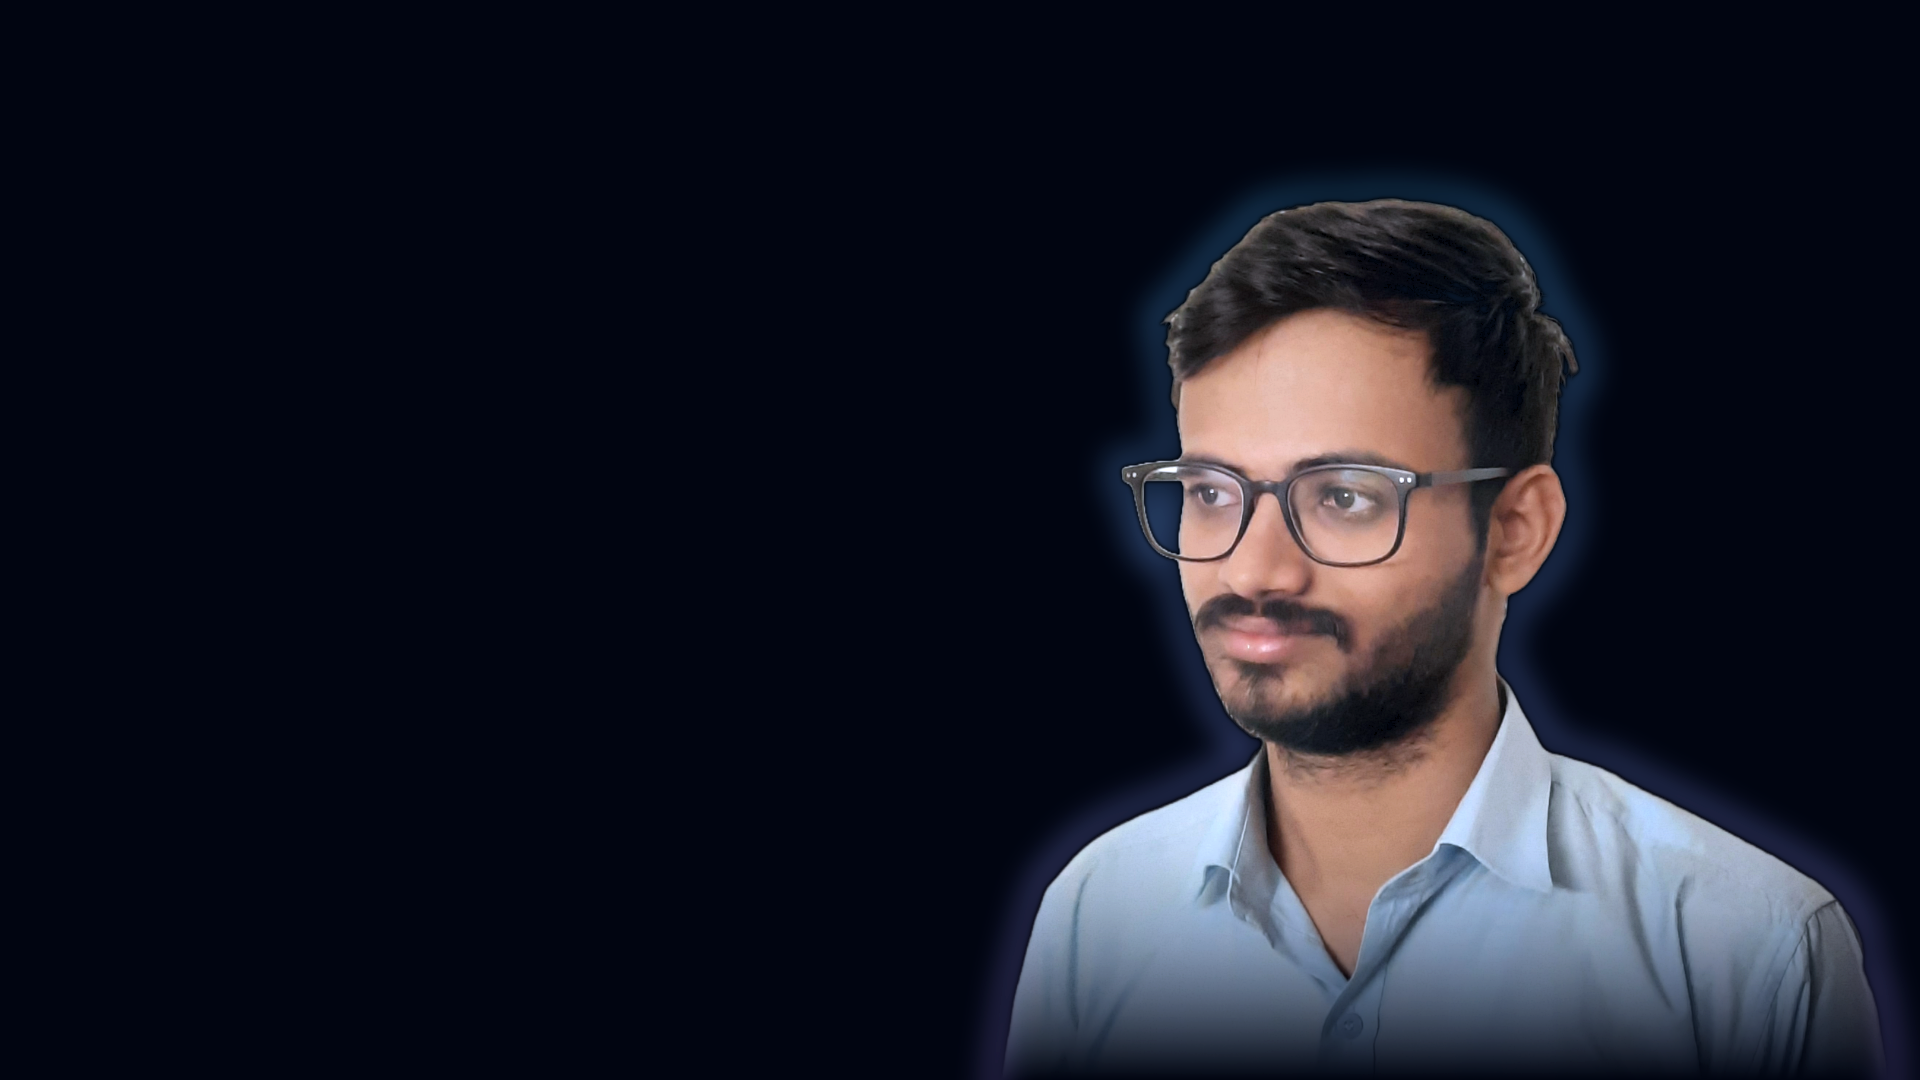
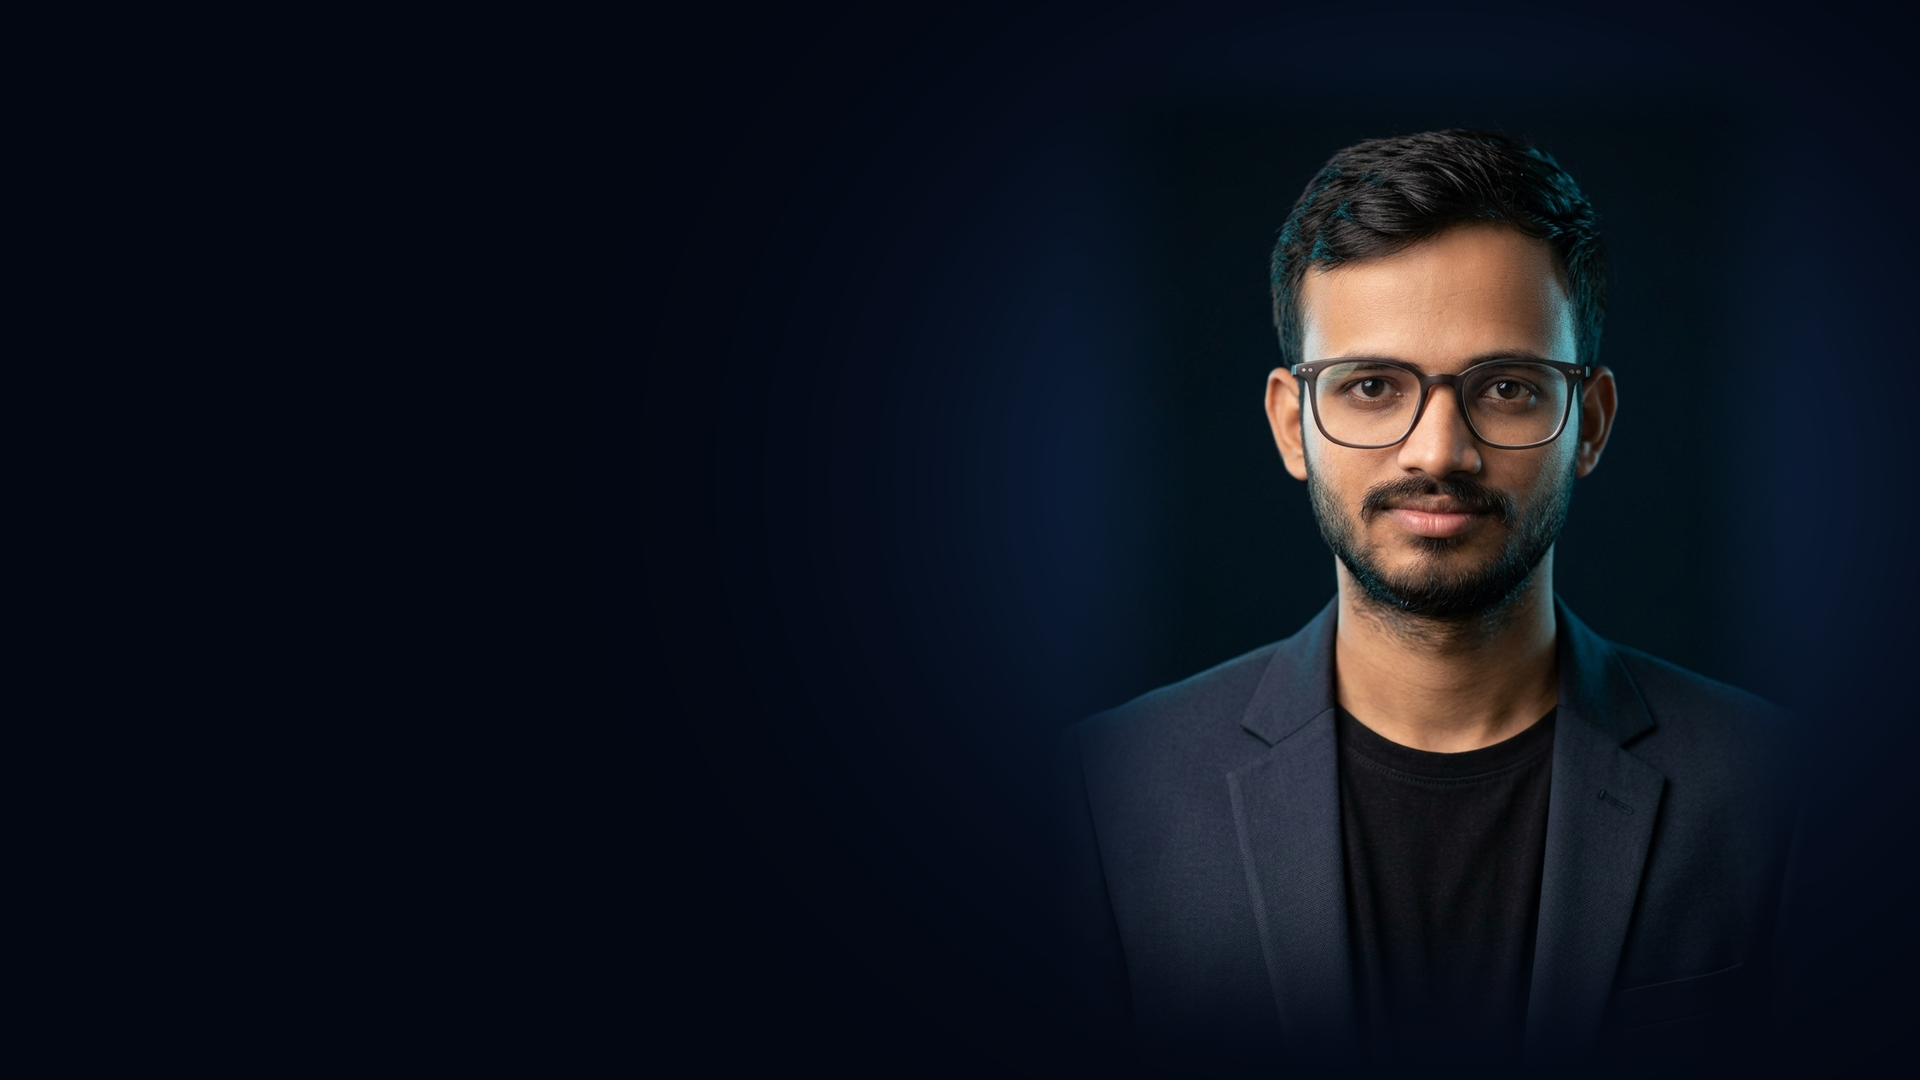
style: replace casual cutout with studio portrait, fix mobile hero overlap, and bust image/CSS cache

Changed region(s): [[0.5, 0.1222, 1.0, 1.0], [0.9062, 0.275, 0.9688, 0.6111]]

diff --git a/index.html b/index.html
@@ -14,22 +14,22 @@
     <meta property="og:title" content="Abhishek Kumar | Machine Learning &amp; AI Engineer">
     <meta property="og:description" content="ML/AI engineer with 2.5+ years building production NLP, speech, computer vision, and RAG systems.">
     <meta property="og:url" content="https://abhi-portfolio-green.vercel.app/">
-    <meta property="og:image" content="https://abhi-portfolio-green.vercel.app/images/og-cover.jpg">
+    <meta property="og:image" content="https://abhi-portfolio-green.vercel.app/images/og-cover.jpg?v=3">
     <meta property="og:image:width" content="1200">
     <meta property="og:image:height" content="630">
     <meta property="og:image:alt" content="Abhishek Kumar &mdash; Machine Learning and AI Engineer">
     <meta name="twitter:card" content="summary_large_image">
     <meta name="twitter:title" content="Abhishek Kumar | Machine Learning &amp; AI Engineer">
     <meta name="twitter:description" content="ML/AI engineer building production NLP, speech, computer vision, and RAG systems.">
-    <meta name="twitter:image" content="https://abhi-portfolio-green.vercel.app/images/og-cover.jpg">
+    <meta name="twitter:image" content="https://abhi-portfolio-green.vercel.app/images/og-cover.jpg?v=3">
 
-    <link rel="icon" type="image/x-icon" href="images/favicon.ico">
-    <link rel="apple-touch-icon" href="images/apple-touch-icon.png">
+    <link rel="icon" type="image/x-icon" href="images/favicon.ico?v=3">
+    <link rel="apple-touch-icon" href="images/apple-touch-icon.png?v=3">
 
-    <link rel="preload" as="image" href="images/background.webp" media="(min-width: 821px)" fetchpriority="high">
-    <link rel="preload" as="image" href="images/mobile-bg.webp" media="(max-width: 820px)" fetchpriority="high">
+    <link rel="preload" as="image" href="images/background.webp?v=3" media="(min-width: 821px)" fetchpriority="high">
+    <link rel="preload" as="image" href="images/mobile-bg.webp?v=3" media="(max-width: 820px)" fetchpriority="high">
     <link rel="preload" as="font" type="font/woff2" href="fonts/montserrat-latin-variable.woff2" crossorigin>
-    <link rel="stylesheet" href="style.css">
+    <link rel="stylesheet" href="style.css?v=3">
     <script>document.documentElement.classList.add('js');</script>
 
     <script type="application/ld+json">
@@ -39,7 +39,7 @@
         "name": "Abhishek Kumar",
         "jobTitle": "Machine Learning & AI Engineer",
         "url": "https://abhi-portfolio-green.vercel.app/",
-        "image": "https://abhi-portfolio-green.vercel.app/images/og-cover.jpg",
+        "image": "https://abhi-portfolio-green.vercel.app/images/og-cover.jpg?v=3",
         "email": "mailto:abhishekkumarnwd71@gmail.com",
         "telephone": "+91-94318-53882",
         "address": {
@@ -104,7 +104,7 @@
       <div class="container">
         <nav aria-label="Main navigation">
           <a class="logo-link" href="#header" aria-label="Abhishek Kumar &mdash; back to top">
-            <img class="logo" src="images/logo.svg" alt="Abhishek Kumar" width="170" height="42">
+            <img class="logo" src="images/logo.svg?v=3" alt="Abhishek Kumar" width="170" height="42">
           </a>
 
           <ul id="sidemenu">

diff --git a/hacker.html b/hacker.html
@@ -15,17 +15,17 @@
     <meta property="og:title" content="Abhishek Kumar // AI/ML Engineer &mdash; Hacker Mode">
     <meta property="og:description" content="A fully interactive, terminal-inspired portfolio: 3D neural hero, case files, and production AI systems.">
     <meta property="og:url" content="https://abhi-portfolio-green.vercel.app/hacker">
-    <meta property="og:image" content="https://abhi-portfolio-green.vercel.app/images/og-cover.jpg">
+    <meta property="og:image" content="https://abhi-portfolio-green.vercel.app/images/og-cover.jpg?v=3">
     <meta name="twitter:card" content="summary_large_image">
     <meta name="twitter:title" content="Abhishek Kumar // AI/ML Engineer &mdash; Hacker Mode">
     <meta name="twitter:description" content="A fully interactive, terminal-inspired portfolio: 3D neural hero, case files, and production AI systems.">
-    <meta name="twitter:image" content="https://abhi-portfolio-green.vercel.app/images/og-cover.jpg">
+    <meta name="twitter:image" content="https://abhi-portfolio-green.vercel.app/images/og-cover.jpg?v=3">
 
-    <link rel="icon" type="image/x-icon" href="images/favicon.ico">
-    <link rel="apple-touch-icon" href="images/apple-touch-icon.png">
+    <link rel="icon" type="image/x-icon" href="images/favicon.ico?v=3">
+    <link rel="apple-touch-icon" href="images/apple-touch-icon.png?v=3">
     <link rel="preload" as="font" type="font/woff2" href="fonts/jetbrains-mono-latin-variable.woff2" crossorigin>
-    <link rel="preload" as="image" href="images/mobile-bg.webp" fetchpriority="high">
-    <link rel="stylesheet" href="hacker.css">
+    <link rel="preload" as="image" href="images/mobile-bg.webp?v=3" fetchpriority="high">
+    <link rel="stylesheet" href="hacker.css?v=3">
     <script>document.documentElement.classList.add('js');</script>
 
     <script type="application/ld+json">
@@ -36,7 +36,7 @@
         "jobTitle": "AI/ML Engineer",
         "description": "AI/ML engineer building production speech, vision, and generative AI systems.",
         "url": "https://abhi-portfolio-green.vercel.app/",
-        "image": "https://abhi-portfolio-green.vercel.app/images/og-cover.jpg",
+        "image": "https://abhi-portfolio-green.vercel.app/images/og-cover.jpg?v=3",
         "email": "mailto:abhishekkumarnwd71@gmail.com",
         "telephone": "+91-94318-53882",
         "address": {
@@ -227,7 +227,7 @@
                   <span>ID // AK-2026</span><span class="live"><i></i> LIVE</span>
                 </div>
                 <div class="operator__portrait">
-                  <img src="images/mobile-bg.webp" alt="Portrait of Abhishek Kumar" width="1080" height="1920" fetchpriority="high">
+                  <img src="images/mobile-bg.webp?v=3" alt="Portrait of Abhishek Kumar" width="1080" height="1350" fetchpriority="high">
                   <div class="operator__scan" aria-hidden="true"></div>
                   <div class="operator__mesh" aria-hidden="true"></div>
                   <span class="hud-tag hud-tag--a" aria-hidden="true">VOICE_ID // 94%</span>

diff --git a/style.css b/style.css
@@ -198,11 +198,11 @@ main:focus-visible {
       90deg,
       #030712 0%,
       rgba(3, 7, 18, 0.97) 34%,
-      rgba(3, 7, 18, 0.82) 54%,
-      rgba(3, 7, 18, 0.45) 78%,
-      rgba(3, 7, 18, 0.62) 100%
+      rgba(3, 7, 18, 0.72) 52%,
+      rgba(3, 7, 18, 0.14) 76%,
+      rgba(3, 7, 18, 0.18) 100%
     ),
-    url("images/background.webp");
+    url("images/background.webp?v=3");
   background-position: center, right center;
   background-repeat: no-repeat, no-repeat;
   background-size: cover, cover;
@@ -1667,14 +1667,17 @@ a.contact-item:hover {
     background-image:
       linear-gradient(
         180deg,
-        rgba(3, 7, 18, 0.8) 0%,
-        rgba(3, 7, 18, 0.86) 42%,
-        rgba(3, 7, 18, 0.97) 78%,
+        rgba(3, 7, 18, 0.68) 0%,
+        rgba(3, 7, 18, 0.08) 12%,
+        rgba(3, 7, 18, 0.16) 32%,
+        rgba(3, 7, 18, 0.82) 43%,
+        #030712 54%,
         #030712 100%
       ),
-      url("images/mobile-bg.webp");
-    background-position: center, center top;
-    background-size: cover, cover;
+      url("images/mobile-bg.webp?v=3");
+    background-position: center, center 62px;
+    background-size: cover, min(100%, 440px) auto;
+    background-repeat: no-repeat, no-repeat;
   }
 
   #header::before {
@@ -1691,7 +1694,7 @@ a.contact-item:hover {
 
   .header-content {
     align-items: flex-start;
-    padding: 24px 0 32px;
+    padding: clamp(245px, 68vw, 320px) 0 32px;
   }
 
   .header-text {
@@ -1951,7 +1954,7 @@ a.contact-item:hover {
   }
 
   .header-content {
-    padding: 16px 0 20px;
+    padding: clamp(235px, 66vw, 300px) 0 24px;
   }
 
   main > section:last-of-type,

diff --git a/404.html b/404.html
@@ -7,9 +7,9 @@
     <meta name="description" content="That page could not be found. Return to Abhishek Kumar's portfolio.">
     <meta name="robots" content="noindex, follow">
     <meta name="theme-color" content="#030712">
-    <link rel="icon" type="image/x-icon" href="images/favicon.ico">
-    <link rel="apple-touch-icon" href="images/apple-touch-icon.png">
-    <link rel="stylesheet" href="style.css">
+    <link rel="icon" type="image/x-icon" href="images/favicon.ico?v=3">
+    <link rel="apple-touch-icon" href="images/apple-touch-icon.png?v=3">
+    <link rel="stylesheet" href="style.css?v=3">
     <style>
       .nf {
         min-height: 100vh;

diff --git a/hacker.css b/hacker.css
@@ -1189,7 +1189,7 @@ body.nav-open .nav-backdrop {
   width: 100%;
   height: 100%;
   object-fit: cover;
-  object-position: center 27%;
+  object-position: center top;
   filter: saturate(0.88) contrast(1.06);
   opacity: 0.94;
   mask-image: linear-gradient(to bottom, #000 0%, #000 82%, transparent 100%);
